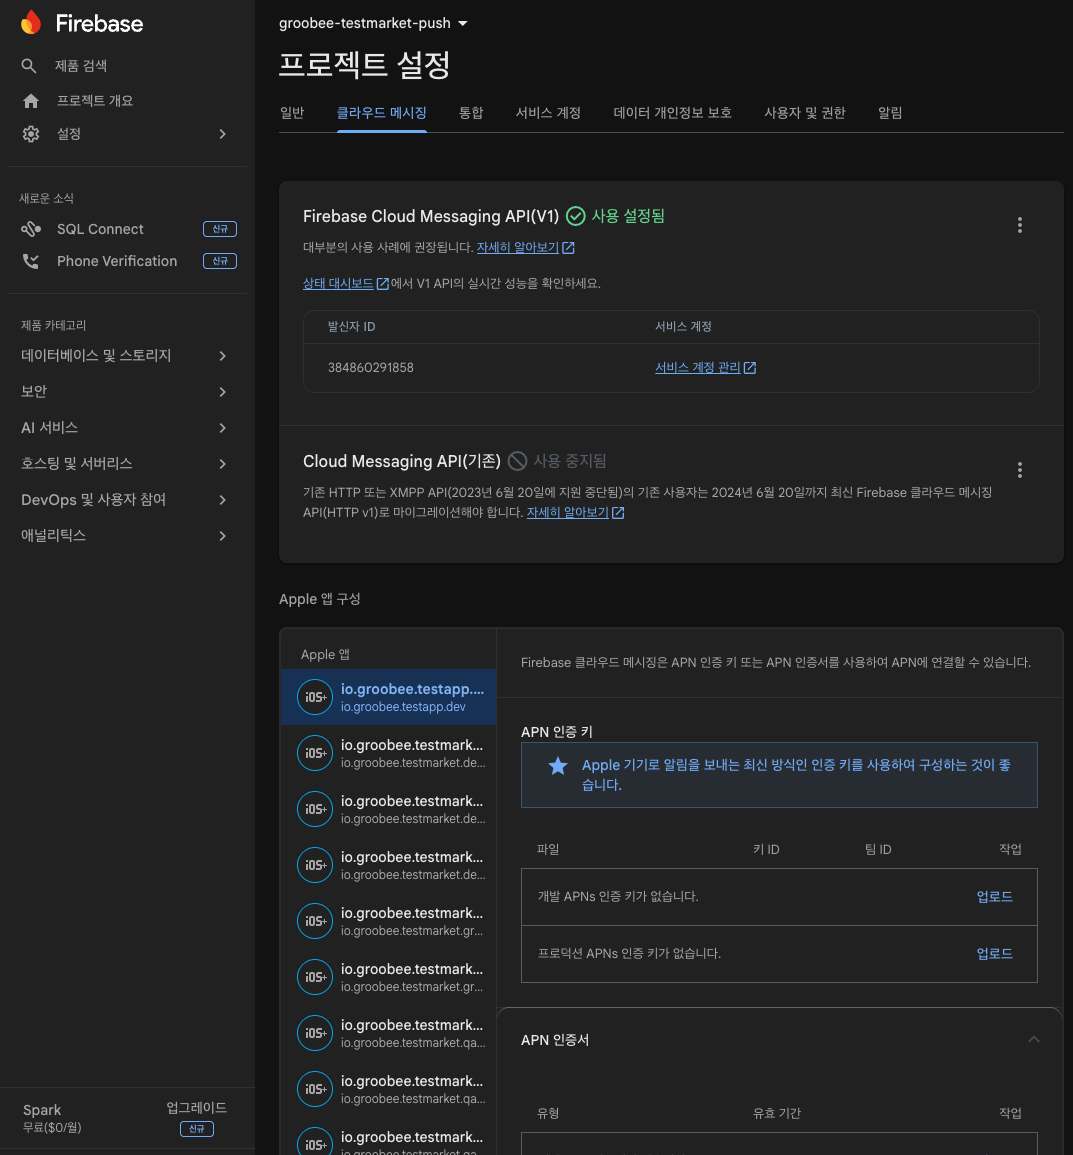
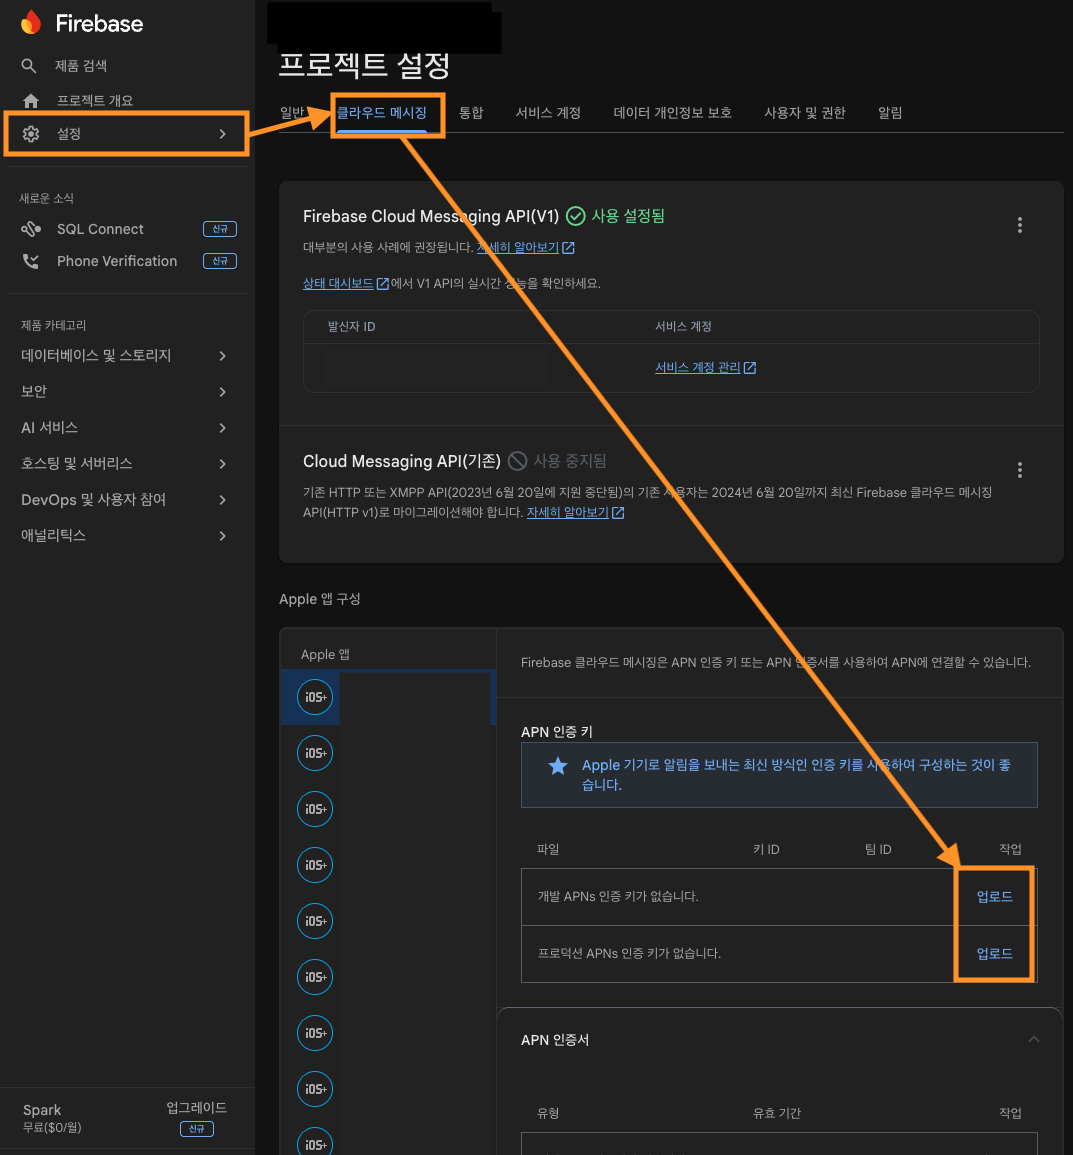
draft: FCM+APNS 연동 섹션을 현행 Firebase 콘솔 UI 기준으로 재작성 + member-push 보강
[installation-ios-sdk.md / installation-ios-flutter-sdk.md]
- FCM+APNS 연동 방법 섹션을 최신 Firebase 콘솔 UI(설정 > 일반 >
  클라우드 메시징) 경로에 맞게 4단계 → 3단계로 재작성
- 교체된 스크린샷(firebase-step1~3)에 맞춰 이미지 참조 갱신
- 섹션 상단에 "iOS의 경우 APNs 인증키를 FCM에 등록해야 푸시 발송이
  가능합니다" 요약 추가

[detail/ios-sdk-member-push.md]
- "회원 정보 설정" 섹션 상단에 운영 주의 사항 블록 추가
  (앱 재실행 간 회원 ID 유지, 외부 비식별 ID 권장, 세션 만료 시
   setServiceLogout, 하이브리드 앱 시 웹·네이티브 회원 ID 일치)
- setServiceLogin 예시 값을 `test123@test.com` → `MB0000012345`로
  변경 (비식별 ID 권장 기조 반영)

[detail/android-sdk-member-push.md]
- 하이브리드 앱 회원 ID 일치 안내 문구 간결화
  ("스크립트에서 setServiceLogin/setServiceLogout로 전달하는 값과
    동일한 값을 Android 네이티브 모듈에서도 전달" →
   "스크립트에서 사용하는 회원아이디와 Android 네이티브 모듈에서
    사용하는 회원아이디가 동일")
- "만료될 때" → "만료되어 로그아웃 될 때" 로 상황 명확화

diff --git a/docs/installation/installation-ios-flutter-sdk.md b/docs/installation/installation-ios-flutter-sdk.md
@@ -357,28 +357,26 @@ didDiscardSceneSessions:(NSSet<UISceneSession *> *)sceneSessions {
 ## 6단계: Push Messaging Service 설정
 
 ### FCM과 APNS 연동 방법
+iOS의 경우 APNs 인증키를 FCM에 등록해야 FCM을 통한 푸시 발송이 가능합니다.  \
+다음은 APNs 인증키를 FCM에 등록하는 방법예시입니다.
 
-1. Firebase 콘솔에서 왼쪽 첫 번째 메뉴 항목인 `프로젝트 개요`를 클릭하고 `프로젝트 설정`으로 진입합니다.
+1. Firebase 콘솔에서 `설정` > `일반` > `클라우드 메시징` 메뉴로 진입한 후, 등록해둔 앱의 APN 인증키를 업로드 버튼을 누릅니다.
 
-![Firebase 콘솔에서 프로젝트 설정 메뉴 열기](../images/sdk/ios/firebase-step1-project-menu.png)
+![APN 인증키 등록 메뉴 접근 순서](../images/sdk/ios/firebase-step1-upload-sign.png)
 
-2. 프로젝트 설정에서 아래 메뉴 탭의 두 번째 항목인 `클라우드 메시징`을 클릭합니다.
+2. 내려받은 `.p8` 파일을 업로드하고 Key ID, Team ID를 입력해 업로드를 완료합니다.
 
-![프로젝트 설정 > 클라우드 메시징 탭](../images/sdk/ios/firebase-step2-cloud-messaging-tab.png)
+![APN 인증 키 업로드 다이얼로그](../images/sdk/ios/firebase-step2-upload-dialog.png)
 
-3. 클라우드 메시징 항목에서 아래로 스크롤하여 `Apple 앱 구성`에서 사용 중인 iOS 앱의 Bundle ID를 확인하고 `APN 인증 키` 하위의 업로드 버튼을 클릭합니다.
+3. 업로드가 완료되면 APNs 인증키가 등록된 것을 확인할 수 있습니다.
 
-![Apple 앱 구성 및 APN 인증 키 업로드 버튼](../images/sdk/ios/firebase-step3-apns-key-upload.png)
-
-4. 내려받은 `.p8` 파일, Key ID, Team ID를 입력하고 업로드합니다.
-
-![APN 인증 키 업로드 다이얼로그](../images/sdk/ios/firebase-step4-apns-key-dialog.png)
+![APN 인증 키 업로드 완료 예시](../images/sdk/ios/firebase-step3-uploaded-sign.png)
 
 참고 링크:
 
-- 키 ID: <https://developer.apple.com/account/resources/authkeys/list> 에서 생성한 Key
-- 팀 ID: <https://developer.apple.com/account> 의 멤버십 세부 사항
-- APNS 연동 공식 문서: <https://firebase.google.com/docs/cloud-messaging/ios/client?hl=ko>
+- APNS 연동 공식 문서: [Firebase Cloud Messaging for iOS](https://firebase.google.com/docs/cloud-messaging/ios/client?hl=ko)
+- Apple Auth Key 관리: [Apple Developer Auth Keys](https://developer.apple.com/account/resources/authkeys/list)
+- Apple Team 정보: [Apple Developer Account](https://developer.apple.com/account)
 
 ---
 

diff --git a/docs/detail/android-sdk-member-push.md b/docs/detail/android-sdk-member-push.md
@@ -39,9 +39,9 @@ Flutter 브리지 구현은 [Flutter Android SDK MethodChannel 연동](./android
 
 - Groobee SDK는 회원 ID를 앱 재실행 후에도 유지합니다.
 - 회원 ID는 외부인이 식별할 수 없는 값으로 전달하는 것을 권장합니다. (예: `MB0000012345` 형태)
-- 앱 토큰/세션이 만료될 때도 현재 상태에 맞게 `setServiceLogout()`를 호출해야 합니다.
+- 앱 토큰/세션이 만료되어 로그아웃 될 때도 현재 상태에 맞게 `setServiceLogout()`를 호출해야 합니다.
 - 푸시 관련 이력 역시 회원 ID와 함께 수집되므로, 푸시로 앱이 열릴 때도 로그인 상태 정합성을 맞춰야 합니다.
-- 하이브리드 앱인 경우 스크립트에서 `setServiceLogin()`/`setServiceLogout()`로 전달하는 값과 동일한 값을 Android 네이티브 모듈에서도 전달해야 합니다.
+- 하이브리드 앱인 경우 스크립트에서 사용하는 회원아이디와 Android 네이티브 모듈에서 사용하는 회원아이디가 동일해야 합니다.
 
 <a id="member-attributes"></a>
 ## 회원 속성 연동
